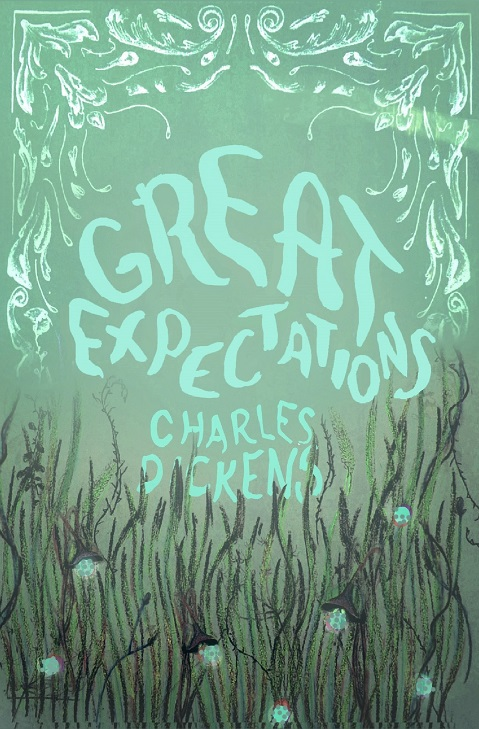
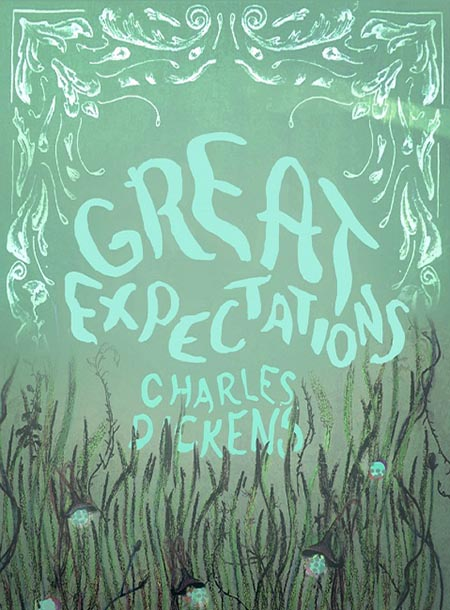
Added cover, table of contents fixed

diff --git a/manuscript/page-6/style.css b/manuscript/page-6/style.css
@@ -1,70 +1,70 @@
 body {
-  font: 2.6vw/1.05 "PT Sans Narrow", sans-serif;
+    font: 2.4vw/1.05 "PT Sans Narrow", sans-serif;
 }
 
 .leaf {
-  height: 100vh;
-  width: 80%;
-  margin: auto;
+    height: 100vh;
+    width: 80%;
+    margin: auto;
 }
 
 .inner {
-  margin: 10% auto;
-  width: 100%;
+    margin: 5% auto;
+    width: 100%;
 }
 
 ul {
-  margin: 0;
-  padding: 0;
-  margin: 5vw 0;
+    margin: 0;
+    padding: 0;
+    margin: 3vw 0;
 }
 
 ul li {
-  list-style: outside none none;
-  margin: 0;
-  height: 6vw;
-  margin: 2px auto;
-  background: rgba(241, 241, 241, 0.5);
-  -webkit-border-radius: 1vw;
-  -moz-border-radius: 1vw;
-  -o-border-radius: 1vw;
-  -ms-border-radius: 1vw;
-  border-radius: 1vw;
+    list-style: outside none none;
+    margin: 0;
+    height: 5vw;
+    margin: 2px auto;
+    background: rgba(241, 241, 241, 0.5);
+    -webkit-border-radius: 1vw;
+    -moz-border-radius: 1vw;
+    -o-border-radius: 1vw;
+    -ms-border-radius: 1vw;
+    border-radius: 1vw;
 }
 
 ul li:hover {
-  background: hsla(90, 70%, 30%, .1);
+    background: hsla(90, 70%, 30%, .1);
 }
 
 ul li a {
-  color: hsla(0, 5%, 35%, 1);
-  float: left;
-  width: 80%;
-  vertical-align: center;
-  clear: both;
-  text-decoration: none;
-    height: 6vw;
-  padding: 0 0 0 3vw;
-  display: -webkit-box;
-  display: flex !important;
-  align-items: center;
-  overflow: hidden;
-  text-overflow: ellipsis;
-  white-space: nowrap;
+    color: hsla(0, 5%, 35%, 1);
+    float: left;
+    width: 80%;
+    vertical-align: center;
+    clear: both;
+    text-decoration: none;
+    height: 5vw;
+    padding: 0 0 0 3vw;
+    display: -webkit-box;
+    display: flex !important;
+    align-items: center;
+    overflow: hidden;
+    text-overflow: ellipsis;
+    white-space: nowrap;
 }
 
 ul li a:hover {
-  float: left;
-  clear: both;
-  text-decoration: none;
-  cursor: pointer;
-  text-shadow: none;
+    float: left;
+    clear: both;
+    text-decoration: none;
+    cursor: pointer;
+    text-shadow: none;
 }
 
 li span {
-  pointer-events: none;
-  float: right;
-  font-size: 80%;
-  width: 10%;
-  height: 6vw;
+    pointer-events: none;
+    float: right;
+    font-size: 80%;
+    width: 10%;
+    height: 5vw;
 }

diff --git a/manuscript/page-7/style.css b/manuscript/page-7/style.css
@@ -1,70 +1,70 @@
 body {
-  font: 2.8vw/1.15 "PT Sans Narrow", sans-serif;
+    font: 2.4vw/1.05 "PT Sans Narrow", sans-serif;
 }
 
 .leaf {
-  height: 100vh;
-  width: 80%;
-  margin: auto;
+    height: 100vh;
+    width: 80%;
+    margin: auto;
 }
 
 .inner {
-  margin: 10% auto;
-  width: 100%;
+    margin: 5% auto;
+    width: 100%;
 }
 
 ul {
-  margin: 0;
-  padding: 0;
-  margin: 5vw 0;
+    margin: 0;
+    padding: 0;
+    margin: 3vw 0;
 }
 
 ul li {
-  list-style: outside none none;
-  margin: 0;
-  height: 6vw;
-  margin: 2px auto;
-  background: rgba(241, 241, 241, 0.5);
-  -webkit-border-radius: 1vw;
-  -moz-border-radius: 1vw;
-  -o-border-radius: 1vw;
-  -ms-border-radius: 1vw;
-  border-radius: 1vw;
+    list-style: outside none none;
+    margin: 0;
+    height: 5vw;
+    margin: 2px auto;
+    background: rgba(241, 241, 241, 0.5);
+    -webkit-border-radius: 1vw;
+    -moz-border-radius: 1vw;
+    -o-border-radius: 1vw;
+    -ms-border-radius: 1vw;
+    border-radius: 1vw;
 }
 
 ul li:hover {
-  background: hsla(90, 70%, 30%, .1);
+    background: hsla(90, 70%, 30%, .1);
 }
 
 ul li a {
-  color: hsla(0, 5%, 35%, 1);
-  float: left;
-  width: 80%;
-  vertical-align: center;
-  clear: both;
-  text-decoration: none;
-    height: 6vw;
-  padding: 0 0 0 3vw;
-  display: -webkit-box;
-  display: flex !important;
-  align-items: center;
-  overflow: hidden;
-  text-overflow: ellipsis;
-  white-space: nowrap;
+    color: hsla(0, 5%, 35%, 1);
+    float: left;
+    width: 80%;
+    vertical-align: center;
+    clear: both;
+    text-decoration: none;
+    height: 5vw;
+    padding: 0 0 0 3vw;
+    display: -webkit-box;
+    display: flex !important;
+    align-items: center;
+    overflow: hidden;
+    text-overflow: ellipsis;
+    white-space: nowrap;
 }
 
 ul li a:hover {
-  float: left;
-  clear: both;
-  text-decoration: none;
-  cursor: pointer;
-  text-shadow: none;
+    float: left;
+    clear: both;
+    text-decoration: none;
+    cursor: pointer;
+    text-shadow: none;
 }
 
 li span {
-  pointer-events: none;
-  float: right;
-  font-size: 80%;
-  width: 10%;
-  height: 6vw;
+    pointer-events: none;
+    float: right;
+    font-size: 80%;
+    width: 10%;
+    height: 5vw;
 }

diff --git a/manuscript/page-8/style.css b/manuscript/page-8/style.css
@@ -1,70 +1,70 @@
 body {
-  font: 2.6vw/1.05 "PT Sans Narrow", sans-serif;
+    font: 2.4vw/1.05 "PT Sans Narrow", sans-serif;
 }
 
 .leaf {
-  height: 100vh;
-  width: 80%;
-  margin: auto;
+    height: 100vh;
+    width: 80%;
+    margin: auto;
 }
 
 .inner {
-  margin: 10% auto;
-  width: 100%;
+    margin: 5% auto;
+    width: 100%;
 }
 
 ul {
-  margin: 0;
-  padding: 0;
-  margin: 5vw 0;
+    margin: 0;
+    padding: 0;
+    margin: 3vw 0;
 }
 
 ul li {
-  list-style: outside none none;
-  margin: 0;
-  height: 6vw;
-  margin: 2px auto;
-  background: rgba(241, 241, 241, 0.5);
-  -webkit-border-radius: 1vw;
-  -moz-border-radius: 1vw;
-  -o-border-radius: 1vw;
-  -ms-border-radius: 1vw;
-  border-radius: 1vw;
+    list-style: outside none none;
+    margin: 0;
+    height: 5vw;
+    margin: 2px auto;
+    background: rgba(241, 241, 241, 0.5);
+    -webkit-border-radius: 1vw;
+    -moz-border-radius: 1vw;
+    -o-border-radius: 1vw;
+    -ms-border-radius: 1vw;
+    border-radius: 1vw;
 }
 
 ul li:hover {
-  background: hsla(90, 70%, 30%, .1);
+    background: hsla(90, 70%, 30%, .1);
 }
 
 ul li a {
-  color: hsla(0, 5%, 35%, 1);
-  float: left;
-  width: 80%;
-  vertical-align: center;
-  clear: both;
-  text-decoration: none;
-    height: 6vw;
-  padding: 0 0 0 3vw;
-  display: -webkit-box;
-  display: flex !important;
-  align-items: center;
-  overflow: hidden;
-  text-overflow: ellipsis;
-  white-space: nowrap;
+    color: hsla(0, 5%, 35%, 1);
+    float: left;
+    width: 80%;
+    vertical-align: center;
+    clear: both;
+    text-decoration: none;
+    height: 5vw;
+    padding: 0 0 0 3vw;
+    display: -webkit-box;
+    display: flex !important;
+    align-items: center;
+    overflow: hidden;
+    text-overflow: ellipsis;
+    white-space: nowrap;
 }
 
 ul li a:hover {
-  float: left;
-  clear: both;
-  text-decoration: none;
-  cursor: pointer;
-  text-shadow: none;
+    float: left;
+    clear: both;
+    text-decoration: none;
+    cursor: pointer;
+    text-shadow: none;
 }
 
 li span {
-  pointer-events: none;
-  float: right;
-  font-size: 80%;
-  width: 10%;
-  height: 6vw;
+    pointer-events: none;
+    float: right;
+    font-size: 80%;
+    width: 10%;
+    height: 5vw;
 }

diff --git a/manuscript/page-1/style.css b/manuscript/page-1/style.css
@@ -1,0 +1,6 @@
+html, body {
+    background-image: url(https://raw.githubusercontent.com/marvindanig/great-expectations/master/cover/front.jpg);
+    height: 100vh;
+    width: 100vw;
+    background-size: 100% 100%;
+}
